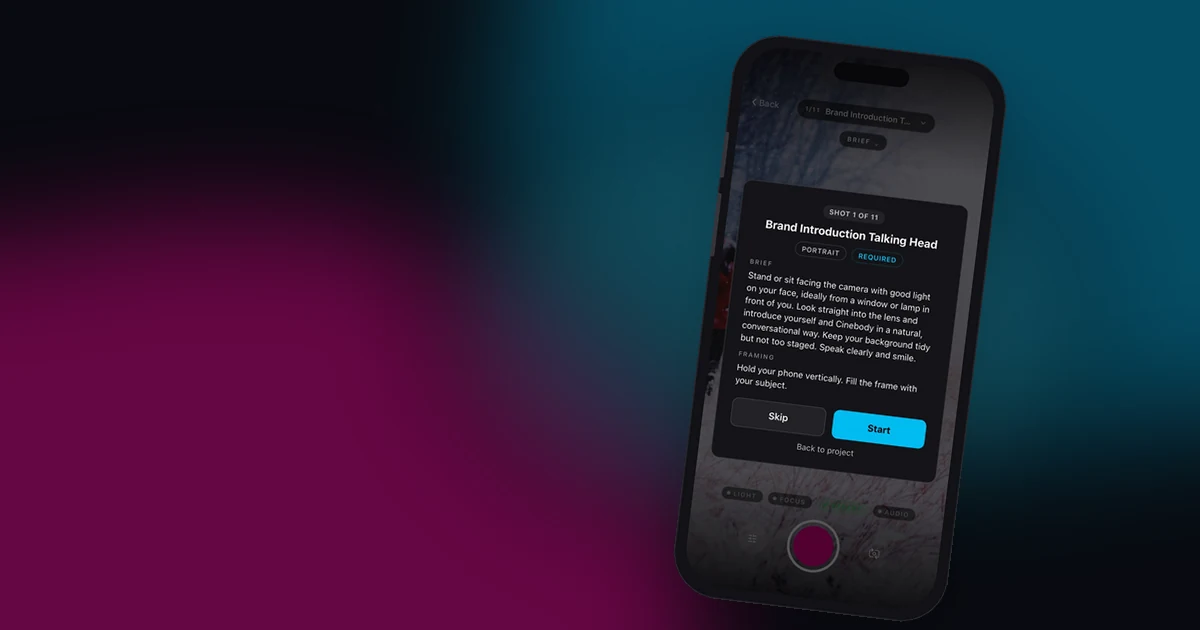
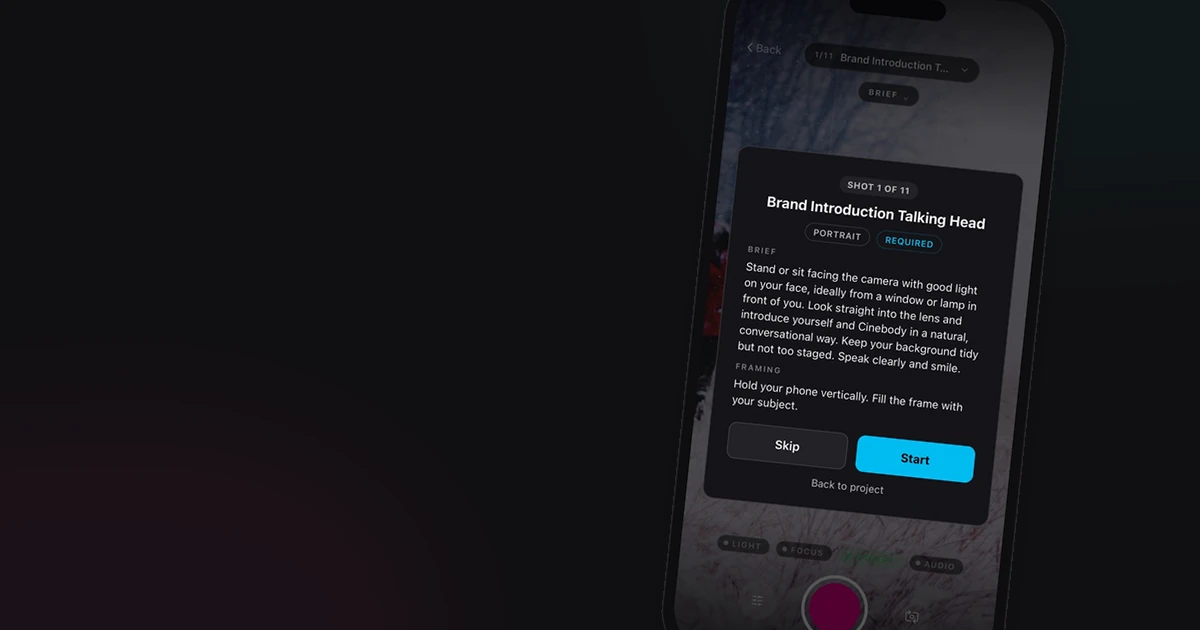
Give the shot-list post charcoal plates and a light article band
Use quiet charcoal device plates with larger phones, a dark hero room, and a warm off-white body so the devices pop. Widen the hero and in-article figures.

diff --git a/site/src/styles/blog.css b/site/src/styles/blog.css
@@ -55,7 +55,16 @@
 @media (max-width: 600px) { .blog-grid { grid-template-columns: 1fr; gap: 22px; } }
 
 /* ---- Post page ---- */
-.post { padding: calc(var(--nav-h) + 56px) 0 0; }
+.post { padding: 0; }
+
+/* Dark hero room: quiet charcoal wash, no loud brand ellipses. */
+.post-hero-room {
+  padding: calc(var(--nav-h) + 56px) 0 56px;
+  background:
+    radial-gradient(ellipse 42% 36% at 12% 88%, rgba(70, 18, 42, 0.16) 0%, transparent 72%),
+    radial-gradient(ellipse 40% 34% at 90% 10%, rgba(18, 58, 64, 0.14) 0%, transparent 70%),
+    #121214;
+}
 .post-head { max-width: 760px; margin: 0 auto; padding: 0 clamp(1.25rem, 4vw, 3rem); text-align: center; }
 .post-head h1 { font-size: clamp(2rem, 4.5vw, 3rem); font-weight: 800; letter-spacing: -0.03em; color: #fff; line-height: 1.1; margin: 0.45em 0 0.4em; }
 .post-dek {
@@ -67,49 +76,55 @@
 }
 .post-meta { font-family: var(--mono); font-size: 11px; font-weight: 500; letter-spacing: 0.1em; text-transform: uppercase; color: rgba(255,255,255,0.5); }
 .post-meta span { color: var(--teal); }
-.post-hero-img { max-width: 1040px; margin: 44px auto 0; padding: 0 clamp(1.25rem, 4vw, 3rem); }
-.post-hero-img img { width: 100%; aspect-ratio: 16/9; object-fit: cover; border-radius: 16px; }
+.post-hero-img { max-width: 1200px; margin: 40px auto 0; padding: 0 clamp(1.25rem, 4vw, 3rem); }
+.post-hero-img img { width: 100%; aspect-ratio: 16/9; object-fit: cover; object-position: right center; border-radius: 16px; }
 
-.post-content { max-width: 720px; margin: 48px auto 0; padding: 0 clamp(1.25rem, 4vw, 3rem); }
+/* Light contrast band for the article body. */
+.post-article {
+  background: #f4f2ee;
+  padding: 56px 0 72px;
+  overflow-x: clip;
+}
+.post-content { max-width: 720px; margin: 0 auto; padding: 0 clamp(1.25rem, 4vw, 3rem); }
 .post-content::after { content: ""; display: table; clear: both; }
 .post-content > :first-child { margin-top: 0; }
-.post-content p { color: rgba(255,255,255,0.78); font-size: 1.08rem; line-height: 1.78; margin: 0 0 1.4em; }
-.post-content h2 { font-size: 1.85rem; font-weight: 700; letter-spacing: -0.02em; color: #fff; line-height: 1.2; margin: 2.35em 0 0.55em; clear: both; }
-.post-content h3 { font-size: 1.3rem; font-weight: 700; color: #fff; margin: 1.6em 0 0.5em; }
-.post-content h4 { font-size: 1.1rem; font-weight: 600; color: #fff; margin: 1.4em 0 0.5em; }
-.post-content a { color: var(--teal); text-decoration: underline; text-underline-offset: 3px; text-decoration-thickness: 1px; transition: color 0.2s ease; }
-.post-content a:hover { color: #fff; }
-.post-content strong { color: #fff; font-weight: 700; }
-.post-content ul, .post-content ol { color: rgba(255,255,255,0.78); font-size: 1.08rem; line-height: 1.7; margin: 0 0 1.4em; padding-left: 1.4em; }
+.post-content p { color: #2c2b29; font-size: 1.08rem; line-height: 1.78; margin: 0 0 1.4em; }
+.post-content h2 { font-size: 1.85rem; font-weight: 700; letter-spacing: -0.02em; color: #141413; line-height: 1.2; margin: 2.35em 0 0.55em; clear: both; }
+.post-content h3 { font-size: 1.3rem; font-weight: 700; color: #141413; margin: 1.6em 0 0.5em; }
+.post-content h4 { font-size: 1.1rem; font-weight: 600; color: #141413; margin: 1.4em 0 0.5em; }
+.post-content a { color: #008eb8; text-decoration: underline; text-underline-offset: 3px; text-decoration-thickness: 1px; transition: color 0.2s ease; }
+.post-content a:hover { color: #0a0a0a; }
+.post-content strong { color: #141413; font-weight: 700; }
+.post-content ul, .post-content ol { color: #2c2b29; font-size: 1.08rem; line-height: 1.7; margin: 0 0 1.4em; padding-left: 1.4em; }
 .post-content li { margin-bottom: 0.5em; }
 .post-content img { width: 100%; border-radius: 16px; margin: 1.6em 0; display: block; background: none; box-shadow: none; }
 .post-content figure { margin: 1.8em 0; background: none; box-shadow: none; }
 .post-content figure img { margin: 0; border-radius: 16px; }
-.post-content figcaption { font-size: 0.85rem; color: rgba(255,255,255,0.45); text-align: center; margin-top: 0.7em; }
-.post-content blockquote { border-left: 3px solid var(--teal); margin: 1.8em 0; padding: 0.2em 0 0.2em 1.3em; color: #fff; font-size: 1.2rem; line-height: 1.5; font-style: italic; }
-.post-content hr { border: none; border-top: 1px solid rgba(255,255,255,0.12); margin: 2.4em 0; }
+.post-content figcaption { font-size: 0.85rem; color: rgba(20,20,19,0.48); text-align: center; margin-top: 0.7em; }
+.post-content blockquote { border-left: 3px solid var(--teal); margin: 1.8em 0; padding: 0.2em 0 0.2em 1.3em; color: #141413; font-size: 1.2rem; line-height: 1.5; font-style: italic; }
+.post-content hr { border: none; border-top: 1px solid rgba(20,20,19,0.12); margin: 2.4em 0; }
 
-/* In-article phone: text wraps on desktop, stacks on small screens. */
+/* In-article phone: large wrap on desktop, stack on small screens. */
 .post-figure--phone { margin: 0.2em 0 1.3em 0; }
 .post-figure--phone img { width: 100%; height: auto; }
 
-/* Desktop wizard / wide plate: align with the hero, no wrap. */
+/* Desktop wizard: full breakout, no wrap. */
 .post-figure--wide {
-  --post-wide: min(1040px, calc(100vw - 2 * clamp(1.25rem, 4vw, 3rem)));
+  --post-wide: min(1200px, calc(100vw - 2 * clamp(1.25rem, 4vw, 3rem)));
   width: var(--post-wide);
   max-width: none;
   margin: 2.2em 0 2.4em;
   margin-left: calc(50% - (var(--post-wide) / 2));
 }
 .post-figure--wide img { width: 100%; height: auto; }
-.post-figure--wide figcaption { text-align: center; color: rgba(255,255,255,0.45); }
+.post-figure--wide figcaption { text-align: center; color: rgba(20,20,19,0.48); }
 
 @media (min-width: 760px) {
   .post-figure--phone {
     float: right;
-    width: min(320px, 42%);
-    max-width: 320px;
-    margin: 0.15em 0 1.35em 1.55em;
+    width: min(420px, 48%);
+    max-width: 420px;
+    margin: 0.15em 0 1.4em 1.7em;
   }
 }
 
@@ -125,7 +140,7 @@
 }
 
 .post-foot {
-  max-width: 720px; margin: 64px auto 0; padding: 40px clamp(1.25rem, 4vw, 3rem) 0;
+  max-width: 720px; margin: 0 auto; padding: 40px clamp(1.25rem, 4vw, 3rem) 0;
   border-top: 1px solid rgba(255,255,255,0.1);
   display: flex; align-items: center; justify-content: space-between; gap: 20px; flex-wrap: wrap;
 }
